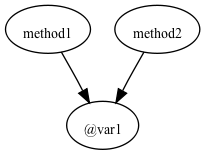
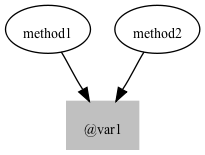
Visually distinguish variable nodes from method nodes.

diff --git a/lib/rubyviz/cli.rb b/lib/rubyviz/cli.rb
@@ -109,12 +109,12 @@ module Rubyviz
     
     def visit_defn(d)
       name = d[1].to_s
-      @m = @g.add_node( "\"#{name}\"" )
+      @m = @g.add_node( "\"#{name}\"")
     end
     
     def visit_var(v)
       name = v.to_s
-      @v = @g.add_node( "\"#{name}\"")
+      @v = @g.add_node( "\"#{name}\"", :shape => 'box', :style => 'filled', :color => 'grey')
       @g.add_edge(@m, @v)
     end
     
